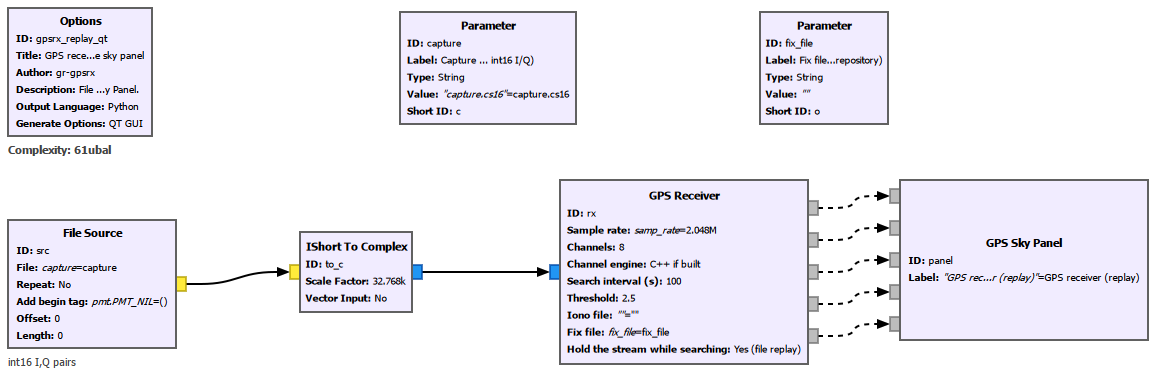
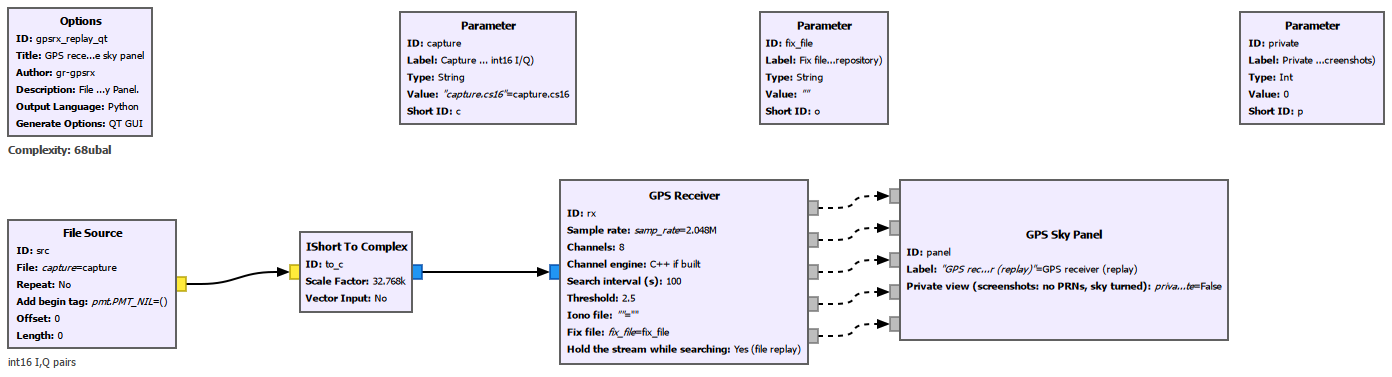
Sky Panel private view (no PRN labels, sky turned by an undisclosed angle) for screenshots; doc image from a recording

diff --git a/python/gpsrx/sky_panel.py b/python/gpsrx/sky_panel.py
@@ -19,6 +19,7 @@ import math
 import threading
 import time
 
+import numpy as np
 import pmt
 from gnuradio import gr
 from PyQt5 import QtCore, QtGui, QtWidgets
@@ -54,8 +55,11 @@ class _Sky(QtWidgets.QWidget):
         qp.drawLine(int(cx - r), int(cy), int(cx + r), int(cy))
         qp.drawLine(int(cx), int(cy - r), int(cx), int(cy + r))
         qp.setPen(QtGui.QColor(140, 140, 140))
-        qp.drawText(int(cx - 4), int(cy - r - 4), "N")
-        qp.drawText(int(cx + r + 3), int(cy + 4), "E")
+        if self.p.private:
+            qp.drawText(int(cx - r), int(cy + r + 14), "sky turned, satellites unnamed (private view)")
+        else:
+            qp.drawText(int(cx - 4), int(cy - r - 4), "N")
+            qp.drawText(int(cx + r + 3), int(cy + 4), "E")
         with self.p.lock:
             chans = dict(self.p.chan)
             azel = dict(self.p.azel)
@@ -66,18 +70,20 @@ class _Sky(QtWidgets.QWidget):
             o = c.get("obs") or {}
             if str(prn) in azel:
                 az, el = azel[str(prn)]
+                az += self.p.rotate
                 rr = r * (90 - max(el, 0)) / 90
                 x, y = cx + rr * math.sin(math.radians(az)), cy - rr * math.cos(math.radians(az))
             else:                                       # no fix yet: a ring, placed by Doppler
                 dop = o.get("carrier_hz", 0.0)
-                ang = math.radians(90.0 - dop / 7000.0 * 90.0)
+                ang = math.radians(90.0 - dop / 7000.0 * 90.0 + self.p.rotate)
                 x, y = cx + r * 0.92 * math.cos(ang), cy - r * 0.92 * math.sin(ang)
             col = _lock_colour(o.get("lock") if o else None)
             qp.setBrush(col)
             qp.setPen(col)
             qp.drawEllipse(QtCore.QPointF(x, y), 7, 7)
-            qp.setPen(QtGui.QColor(230, 230, 230))
-            qp.drawText(int(x + 9), int(y + 4), f"{prn}")
+            if not self.p.private:
+                qp.setPen(QtGui.QColor(230, 230, 230))
+                qp.drawText(int(x + 9), int(y + 4), f"{prn}")
 
 
 class sky_panel(gr.basic_block, QtWidgets.QWidget):
@@ -85,9 +91,15 @@ class sky_panel(gr.basic_block, QtWidgets.QWidget):
     in : messages 'sky', 'status', 'obs', 'nav', 'fix'
     """
 
-    def __init__(self, label="GPS receiver", parent=None):
+    def __init__(self, label="GPS receiver", parent=None, private=False):
         gr.basic_block.__init__(self, name="gpsrx_sky_panel", in_sig=None, out_sig=None)
         QtWidgets.QWidget.__init__(self, parent)
+        # private: for screenshots. A sky plot with PRN numbers at a known time can be inverted
+        # to a rough position (the constellation is public). Hide the numbers and turn the whole
+        # sky by an angle drawn at start and never shown: dots with no identity and no bearing
+        # cannot be inverted. The picture is otherwise true.
+        self.private = bool(private)
+        self.rotate = float(np.random.default_rng().uniform(0, 360)) if self.private else 0.0
         self.lock = threading.Lock()
         self.chan, self.nav, self.azel = {}, {}, {}
         self.fix, self.sky, self.t0 = None, None, time.time()
@@ -169,9 +181,10 @@ class sky_panel(gr.basic_block, QtWidgets.QWidget):
                 lines.append(f"slot {s}: idle")
                 continue
             o, nv = c.get("obs"), nav.get(s)
-            txt = f"slot {s}: PRN {c['prn']:2d}"
+            txt = f"slot {s}: PRN {c['prn']:2d}" if not self.private else f"slot {s}: PRN --"
             if o:
-                txt += f"  lock {o['lock']:.2f}  {o['carrier_hz']:+7.1f} Hz  {o['epochs'] / 1000:4.0f} s"
+                txt += f"  lock {o['lock']:.2f}" + (f"  {o['carrier_hz']:+7.1f} Hz" if not self.private else "") \
+                    + f"  {o['epochs'] / 1000:4.0f} s"
             if nv:
                 txt += f"  subframes {nv['n_subframes']:2d}" + ("  ephemeris" if nv.get("complete") else "")
             lines.append(txt)

diff --git a/util/make_grc.py b/util/make_grc.py
@@ -94,7 +94,8 @@ def build_replay_qt():
     b = source(y) + [
         blk("rx", "gpsrx_receiver", 560, y - 40, samp_rate="samp_rate", n_channels=8, interval_s=100.0, threshold=2.5,
             iono_file='""', fix_file="fix_file", hold="True", engine="'auto'"),
-        blk("panel", "gpsrx_sky_panel", 900, y - 40, label='"GPS receiver (replay)"', gui_hint="0,0,1,1"),
+        blk("panel", "gpsrx_sky_panel", 900, y - 40, label='"GPS receiver (replay)"', private="private", gui_hint="0,0,1,1"),
+        blk("private", "parameter", 1240, 12, label="Private view (screenshots)", type="intx", value="0", short_id="p"),
     ]
     c = [["src", "0", "to_c", "0"], ["to_c", "0", "rx", "0"]] + [["rx", p, "panel", p] for p in
                                                                    ("sky", "status", "obs", "nav", "fix")]
@@ -126,7 +127,8 @@ def build_radio_qt():
             comment="live needs the C++ Channel (util/build_win.cmd, or cmake on Linux)"),
         blk("spectrum", "qtgui_freq_sink_x", 330, y - 260, type="complex", name='"L1 baseband (the signal is below the noise)"',
             fftsize=1024, fc=0, bw="samp_rate", average=0.02, gui_hint="0,0,1,1"),
-        blk("panel", "gpsrx_sky_panel", 900, y - 40, label='"GPS receiver"', gui_hint="1,0,1,1"),
+        blk("panel", "gpsrx_sky_panel", 900, y - 40, label='"GPS receiver"', private="private", gui_hint="1,0,1,1"),
+        blk("private", "parameter", 1460, 12, label="Private view (screenshots)", type="intx", value="0", short_id="p"),
     ]
     c = [["src", "0", "rx", "0"], ["src", "0", "spectrum", "0"]] + [["rx", p, "panel", p] for p in
                                                                     ("sky", "status", "obs", "nav", "fix")]

diff --git a/util/make_blocks.py b/util/make_blocks.py
@@ -13,7 +13,7 @@ SLOT = {"id": "slot", "label": "Slot", "dtype": "int", "default": "0"}
 
 QT_MAKE = """<%
     win = '_%s_win' % id
-%>    ${win} = gpsrx.BLOCK(label=${label}, parent=self)
+%>    ${win} = gpsrx.BLOCK(label=${label}, parent=self, private=${private})
 self.${id} = ${win}
 ${gui_hint() % win}"""
 
@@ -124,9 +124,12 @@ Channel keeps up with a radio; the Python one is for replay and reading.""",
     dict(id="gpsrx_sky_panel", label="GPS Sky Panel", doc="""Qt panel: the sky as a polar plot with every tracked satellite where the fix puts it
 (coloured by lock; on a Doppler ring before the first fix), one line per channel, and the
 fix's quality - satellites, residual rms, PDOP, scatter. It never shows the position.
+Private view: for screenshots - PRN numbers hidden and the sky turned by an undisclosed
+angle, because a named constellation at a known time can be inverted to a rough position.
 Optional: the receiver runs without it. Docks like any QT GUI widget (GUI Hint).""",
          make=None,
          params=[{"id": "label", "label": "Label", "dtype": "string", "default": "GPS receiver"},
+                 {"id": "private", "label": "Private view (screenshots: no PRNs, sky turned)", "dtype": "bool", "default": "False"},
                  {"id": "gui_hint", "label": "GUI Hint", "dtype": "gui_hint", "hide": "part"}],
          inputs=[{"domain": "message", "id": p, "optional": True} for p in ("sky", "status", "obs", "nav", "fix")],
          outputs=[]),

diff --git a/README.md b/README.md
@@ -71,6 +71,12 @@ that file out of any repository.
 
 ![the receiver on the canvas](docs/img/grc_canvas.png)
 
+![the Sky Panel on a recording, private view](docs/img/sky_panel_private.png)
+
+*The Sky Panel's private view: a named constellation at a known time can be inverted to a
+rough position, so for screenshots the PRN numbers are hidden and the sky is turned by an
+undisclosed angle. Everything else in the picture is as it ran.*
+
 ## What is not done
 
 - Linux build and CI (the CMake is gr_modtool's; nothing platform-specific in the C++).
